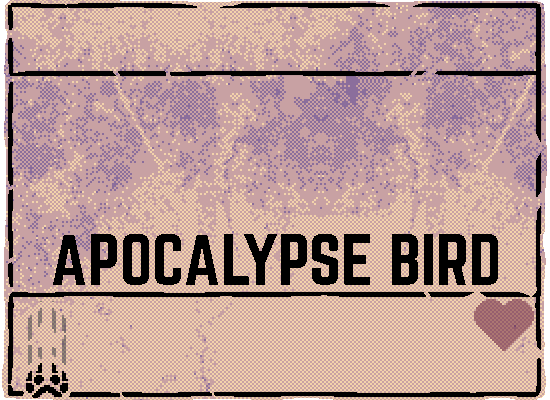
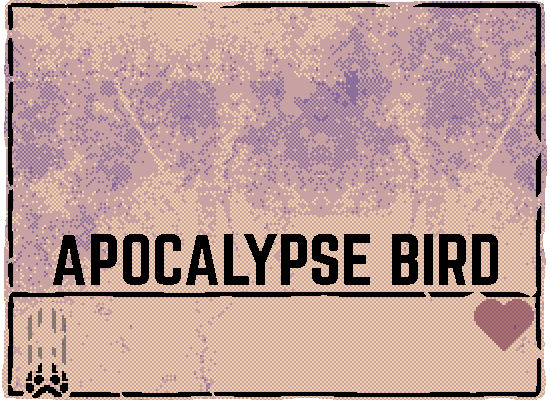
Sap special now plays dialogue every time it's explode time, removed unused dialogue, tweaked bird boss background

Changed region(s): [[0.0309, 0.18, 0.9891, 0.21]]

diff --git a/WhistleWindLobotomyMod/Core/Dialogue/DialogueEvents.cs b/WhistleWindLobotomyMod/Core/Dialogue/DialogueEvents.cs
@@ -60,17 +60,6 @@ namespace WhistleWindLobotomyMod
             CreateDialogueEvents("CrimsonScarWolf", new() {
                 "That familiar red cloth..."
                 });
-            CreateDialogueEvents("DerFreischutzSeventhBullet", new() {
-                "The Devil proposed a childist contract.",
-                "The seventh bullet would pierce the heart of his most beloved.",
-                "On hearing this, the hunter sought and shot everyone he loved."
-                });
-            CreateDialogueEvents("ExpressHellTrainWipe", new() {
-                "The train sounds its mighty horn."
-                });
-            CreateDialogueEvents("GiantTreeSapExplode", new() {
-                "A strange gurgling sound comes from your beast's stomach."
-                });
             CreateDialogueEvents("KingOfGreedTransform", new() {
                 "Desire unfulfilled, the koi continues for Eden."
                 });

diff --git a/WhistleWindLobotomyMod/Abilities/Special Abilities/Sap.cs b/WhistleWindLobotomyMod/Abilities/Special Abilities/Sap.cs
@@ -36,7 +36,7 @@ namespace WhistleWindLobotomyMod
                 }
 
                 yield return new WaitForSeconds(0.4f);
-                yield return DialogueHelper.PlayDialogueEvent("GiantTreeSapExplode", 0f);
+                yield return DialogueHelper.ShowUntilInput("A strange gurgling sound comes from your beast's stomach.");
 
                 card.Info.SetExtendedProperty("wstl:Sap", true);
             }

diff --git a/WhistleWindLobotomyMod/CHANGELOG.md b/WhistleWindLobotomyMod/CHANGELOG.md
@@ -61,7 +61,7 @@
 - Added 1 new encounter
 ### 💣 Removals
 - Removed Magic Bullet special ability
-- Removed Adoration special ability
+- Removed unused dialogue events
 
 ## v2.0.2 - Minor patch (7/29/2023)
 ### 🩹 Bug fixes
